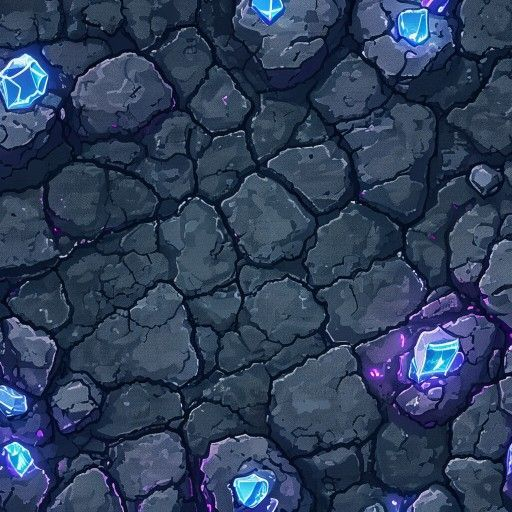
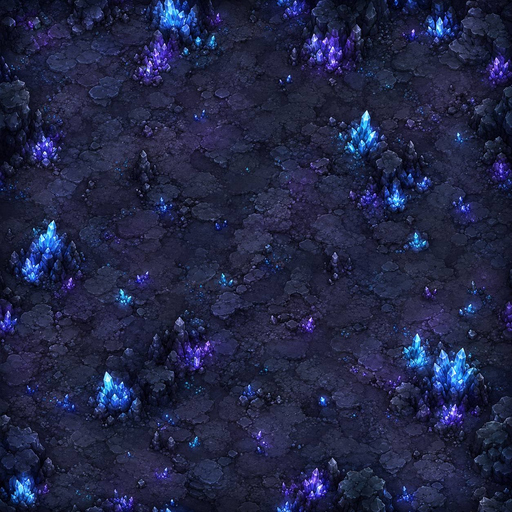
V286: Replace cave background tile with new image

diff --git a/config.js b/config.js
@@ -1,4 +1,4 @@
-window.GAME_VERSION = "V285";
+window.GAME_VERSION = "V286";
 window.HARDCORE_HP_MULTIPLIER = 3.0; 
 window.LEVEL_CLEAR_HEAL_PERCENT = 0.5;
 window.DEBUG_SHOW_HITBOX = false;
